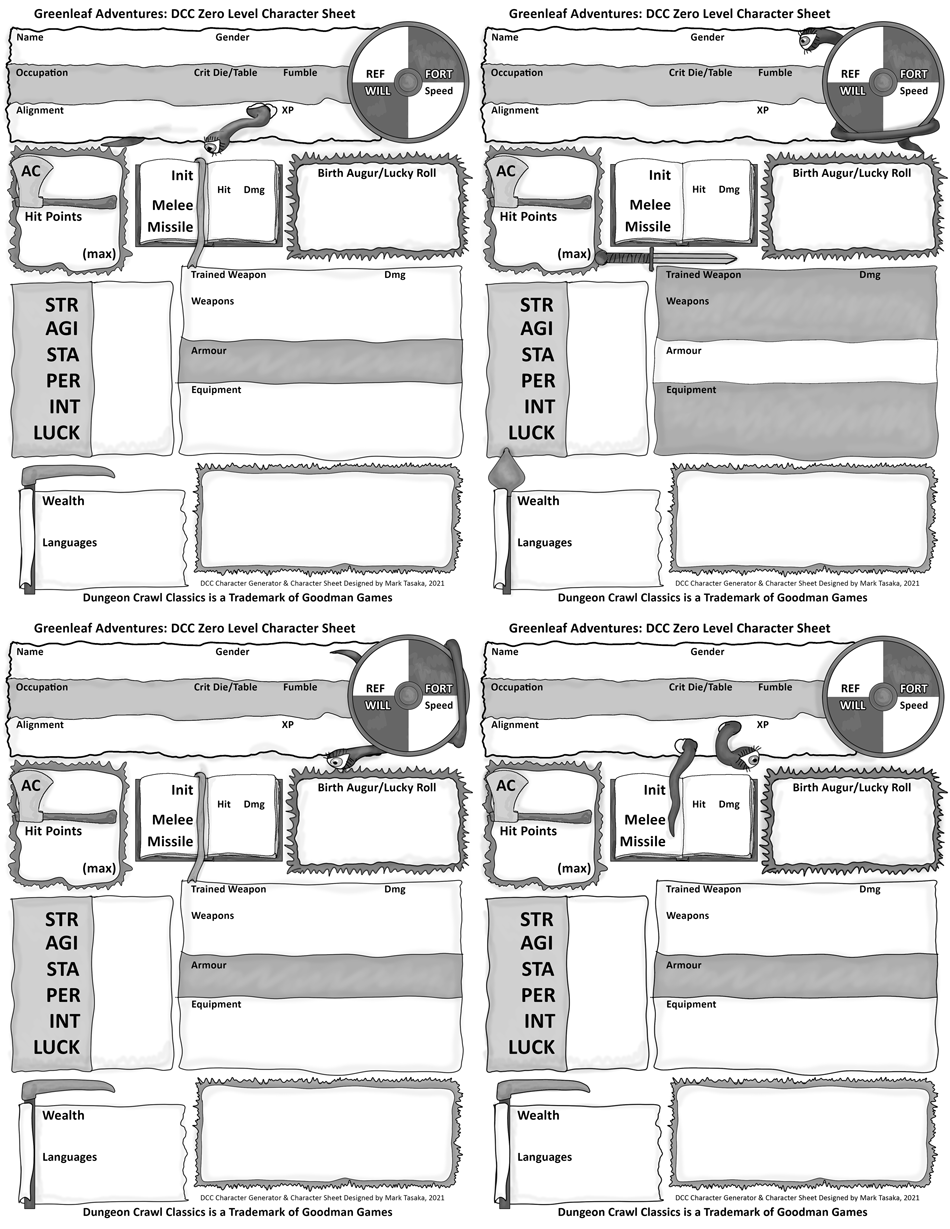
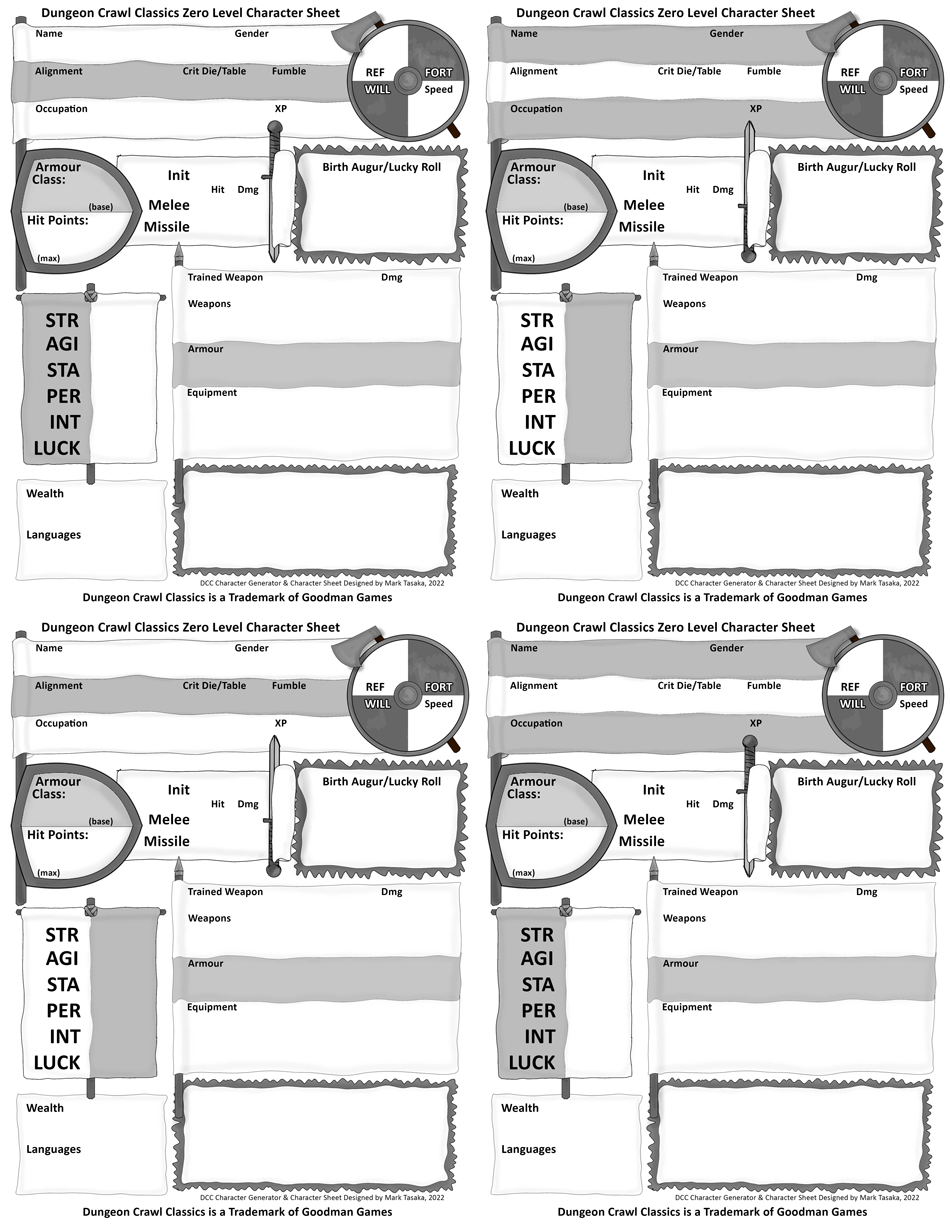
Update 1.01

diff --git a/zeroLevelGen/levelZeroCharacters.php b/zeroLevelGen/levelZeroCharacters.php
@@ -1,15 +1,16 @@
 <!DOCTYPE html>
 <html>
 <head>
-<title>Dungeon Crawl Classics Greenleaf Adventures Character Generator</title>
+<title>Dungeon Crawl Classics Character Generator</title>
  
 <script src="https://ajax.googleapis.com/ajax/libs/jquery/3.2.1/jquery.min.js"></script>
     
 	<meta charset="UTF-8">
-	<meta name="description" content="Dungeon Crawl Classics Greenleaf Adventures Character Generator. Goodman Games.">
+	<meta name="description" content="Dungeon Crawl Classics Character Generator. Goodman Games.">
 	<meta name="keywords" content="Dungeon Crawl Classics, Jim Wampler, Goodman Games,HTML5,CSS,JavaScript">
-	<meta name="author" content="Mark Tasaka 2021">
+	<meta name="author" content="Mark Tasaka 2022">
 		
+    <link rel="icon" href="../images/favicon/icon.png" type="image/png" sizes="16x16"> 
 
 	<link rel="stylesheet" type="text/css" href="css/dcc_zero_characters.css">
     
